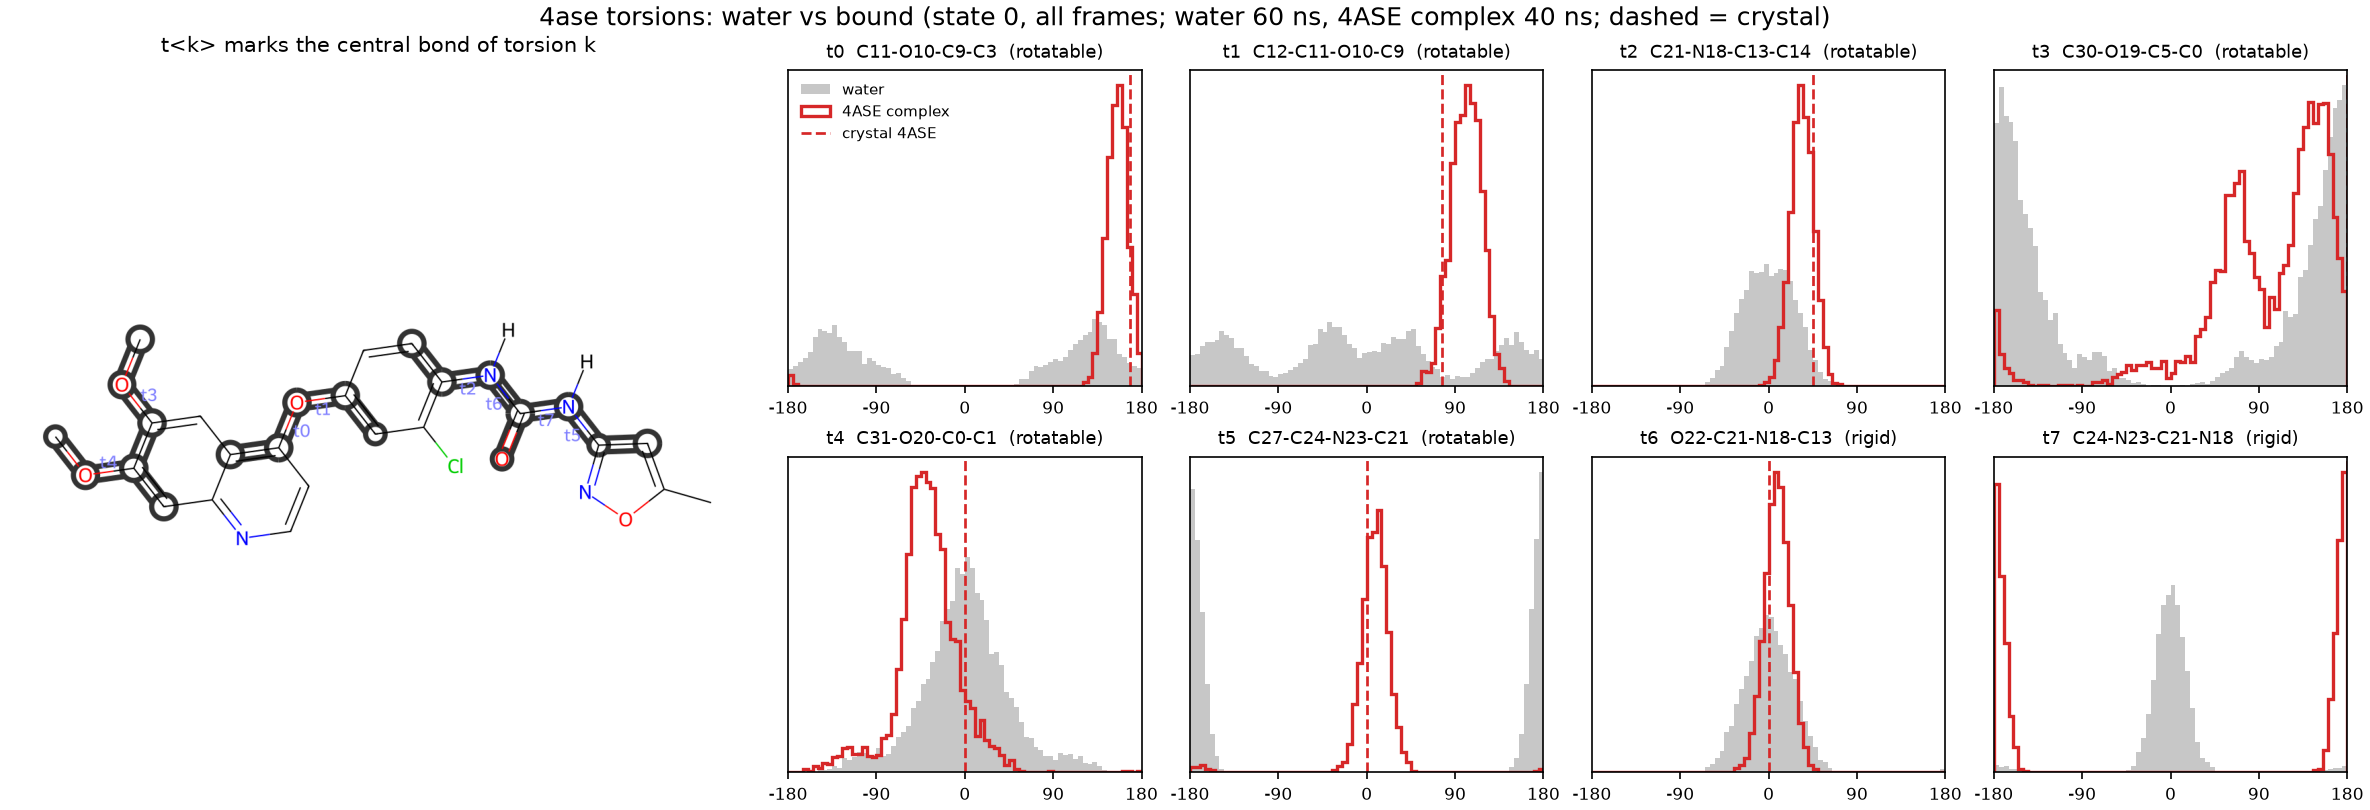
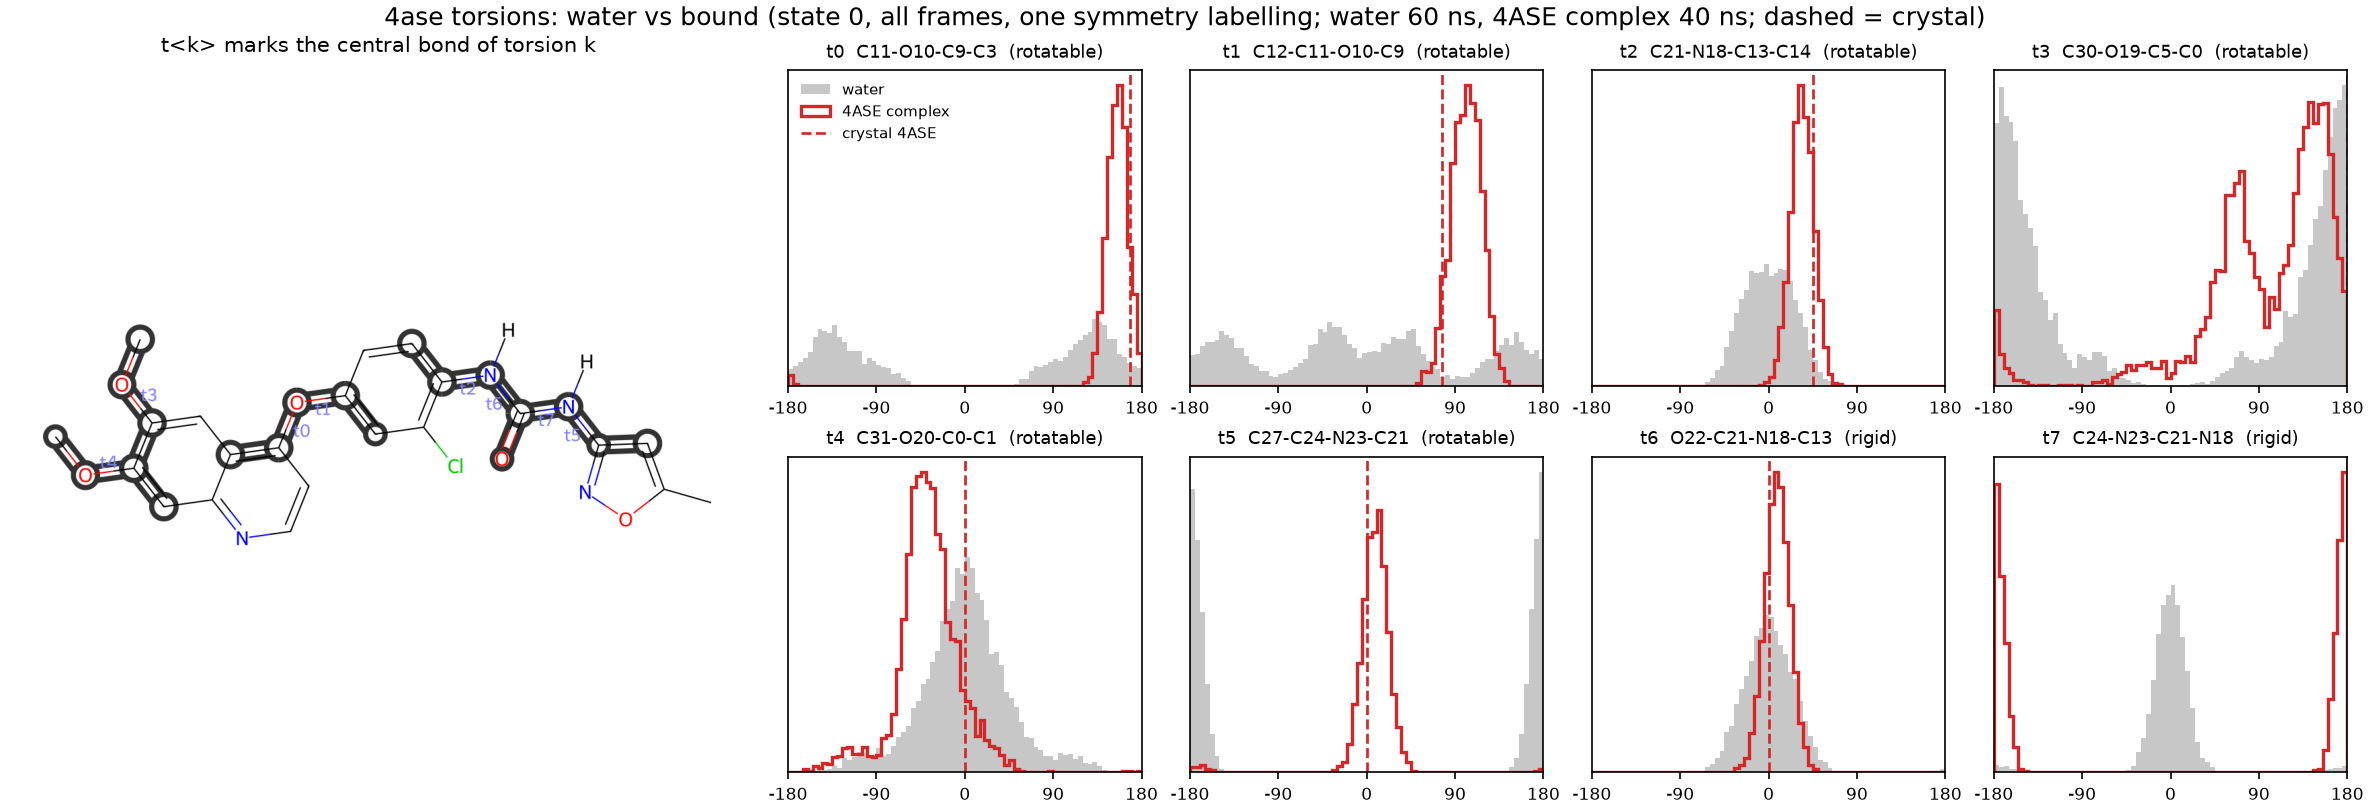
water_vs_complex: all systems in one symmetry labelling (nearest the crystal), so symmetric torsions of one conformer overlap

Changed region(s): [[0.1561, 0.0, 0.843, 0.0309]]

diff --git a/analysis/report/water_vs_complex.py b/analysis/report/water_vs_complex.py
@@ -1,6 +1,9 @@
 """Torsions of the ligand in water vs in its complex(es): one figure per compound, one panel per
 torsion, the state-0 distributions overlaid (all frames, no clustering) and each complex's crystal
-value as a dashed line in that complex's colour.
+value as a dashed line in that complex's colour. Every frame of every system is written in ONE
+labelling (the molecule's symmetry: ring flips, carboxylates), the one nearest the crystal, so a
+symmetric torsion shows one peak per conformer and water and complex peaks of the same conformer
+coincide, as in the clustering figures.
 
 Generalises ../shuyu_clustering/compare_water_complex.py (folate only) to any compound in the
 manifest (prepare.py). Each system reads its own torsion files, which prepare.py mapped from the water
@@ -31,7 +34,8 @@ from rdkit import Chem
 
 HERE = os.path.dirname(os.path.abspath(__file__))
 sys.path.insert(0, os.path.join(os.path.dirname(HERE), "shuyu_clustering"))
-from cluster_prune import load_torsions, reference_torsions, molecule_png, simulated_ns  # noqa: E402
+from cluster_prune import load_torsions, molecule_png, simulated_ns  # noqa: E402
+from md_tools.analysis import t_hdbscan, TorsionDefinitions, verify_atom_mapping, reference_assignments  # noqa: E402
 
 KINDS = ("torsions", "torsions_rigid", "torsions_polarH")
 COLOURS = ["#d62728", "#1f77b4", "#2ca02c", "#ff7f0e"]
@@ -50,14 +54,52 @@ def peak(values, edges):
     return 0.5 * (edges[h.argmax()] + edges[h.argmax() + 1])
 
 
-def system_torsions(system, stride):
-    """(names, per-frame dihedrals (F, n), quads, RDKit mol, simulated ns) for one system."""
+def canonical_row(rows, K):
+    """One of a crystal's symmetry-equivalent assignment rows, chosen by a rule that does not depend
+    on the system's atom order (lowest torsion values first, rounded to 1 deg), so every system
+    is written in the same labelling of the same crystal."""
+    R = np.asarray(rows, float)
+    key = np.where(np.isfinite(R[:, :K]), np.round(np.rad2deg(wrap(R[:, :K]))), 999.0)
+    return R[np.lexsort(key.T[::-1])[0]]
+
+
+def system_torsions(system, stride, crystal, max_matches):
+    """(names, per-frame dihedrals (F, n) in ONE labelling, quads, RDKit mol, simulated ns, descriptor,
+    reference row) for one system. Symmetric torsions (ring flips, carboxylates) are written in the
+    labelling nearest the crystal `crystal` -- the same crystal and the same rule for every system,
+    so water and complex peaks of one conformer coincide (as in the clustering figures). The
+    crystal's undefined columns (torsions through H) are filled from the system frame closest to it."""
     tors = load_torsions([f"{system['torsions']}/{k}.txt" for k in KINDS
                           if os.path.getsize(f"{system['torsions']}/{k}.txt") > 0])
-    quads = list(tors.values())
+    names, quads = list(tors), list(tors.values())
     t = md.load(system["traj"], top=system["top"], stride=stride)
     mol = Chem.SDMolSupplier(system["sdf"], removeHs=False)[0]
-    return list(tors), md.compute_dihedrals(t, quads), quads, mol, simulated_ns(t, stride)
+    mapping, _ = verify_atom_mapping(mol, [(a.index, b.index) for a, b in t.topology.bonds],
+                                     [a.element.symbol for a in t.topology.atoms])
+    defs = TorsionDefinitions(quads=tuple(quads), names=tuple(names), indexing="zero-based", units="radian")
+    extra = {"max_matches": int(max_matches)} if max_matches else {}
+    fit = t_hdbscan(md.compute_dihedrals(t, quads), molecule=mol, torsion_definitions=defs, coordinates=t,
+                    atom_mapping=mapping, **extra)                      # not fitted: symmetry only
+    d, C, K = fit.descriptor_, np.asarray(fit.closed_theta_, float), len(names)
+    ref = canonical_row(reference_assignments(crystal, mol, d.quads), K)
+    ok = np.isfinite(ref)
+    if not ok.all():                         # fill the H columns from the closest frame, in the crystal's labelling
+        best = (np.inf, None)
+        for op in d.operations:
+            G = d.transform(C, op.index)
+            dist = np.abs(wrap(G[:, ok] - ref[ok])).sum(axis=1)
+            i = int(dist.argmin())
+            if dist[i] < best[0]:
+                best = (dist[i], G[i])
+        ref = np.where(ok, ref, best[1])
+    angles = wrap(d.align_to_reference(C, ref)["angles"][:, :K])
+    return names, angles, quads, mol, simulated_ns(t, stride), d, ref
+
+
+def crystal_lines(d, path, mol, ref, K):
+    """A crystal's torsion values in the labelling nearest `ref` (one value per torsion, [] through H)."""
+    near = d.nearest_labelling(reference_assignments(path, mol, d.quads), ref)["angles"]
+    return [[float(wrap(a))] if np.isfinite(a) else [] for a in near[:K]]
 
 
 def main():
@@ -70,13 +112,15 @@ def main():
     man = json.load(open(args.manifest))
     stride = man["stride"]
 
-    names, wvals, wquads, wmol, wns = system_torsions(man["water"], stride)
+    # one labelling for every system: the one nearest the first complex's crystal (water: its own first)
+    crystal = man["complexes"][0]["refs"][0] if man["complexes"] else man["water"]["refs"][0]
+    names, wvals, wquads, wmol, wns, _, _ = system_torsions(man["water"], stride, crystal, man["max_matches"])
     systems = {"water": (wvals, "#9a9a9a", None, wns)}
     for k, c in enumerate(man["complexes"]):
-        cnames, cvals, cquads, cmol, cns = system_torsions(c, stride)
+        cnames, cvals, cquads, cmol, cns, d, ref = system_torsions(c, stride, crystal, man["max_matches"])
         assert len(cnames) == len(names), f"{c['label']}: {len(cnames)} torsions, water has {len(names)}"
-        ref = reference_torsions(c["refs"][0], cmol, cquads)
-        systems[f"{c['label']} complex"] = (cvals, COLOURS[k % len(COLOURS)], ref, cns)
+        lines = crystal_lines(d, c["refs"][0], cmol, ref, len(cnames))
+        systems[f"{c['label']} complex"] = (cvals, COLOURS[k % len(COLOURS)], lines, cns)
 
     edges = np.linspace(-np.pi, np.pi, args.bins + 1)
     win = np.deg2rad(args.window)
@@ -133,7 +177,7 @@ def main():
         if k == 0:
             ax.legend(fontsize=7, loc="upper left", frameon=False)
     lengths = ", ".join(f"{label} {s[3]:.0f} ns" for label, s in systems.items())
-    fig.suptitle(f"{man['name']} torsions: water vs bound (state 0, all frames; {lengths}; dashed = crystal)",
+    fig.suptitle(f"{man['name']} torsions: water vs bound (state 0, all frames, one symmetry labelling; {lengths}; dashed = crystal)",
                  fontsize=12)
     fig.savefig(args.out + ".png", dpi=150)
     plt.close(fig)
